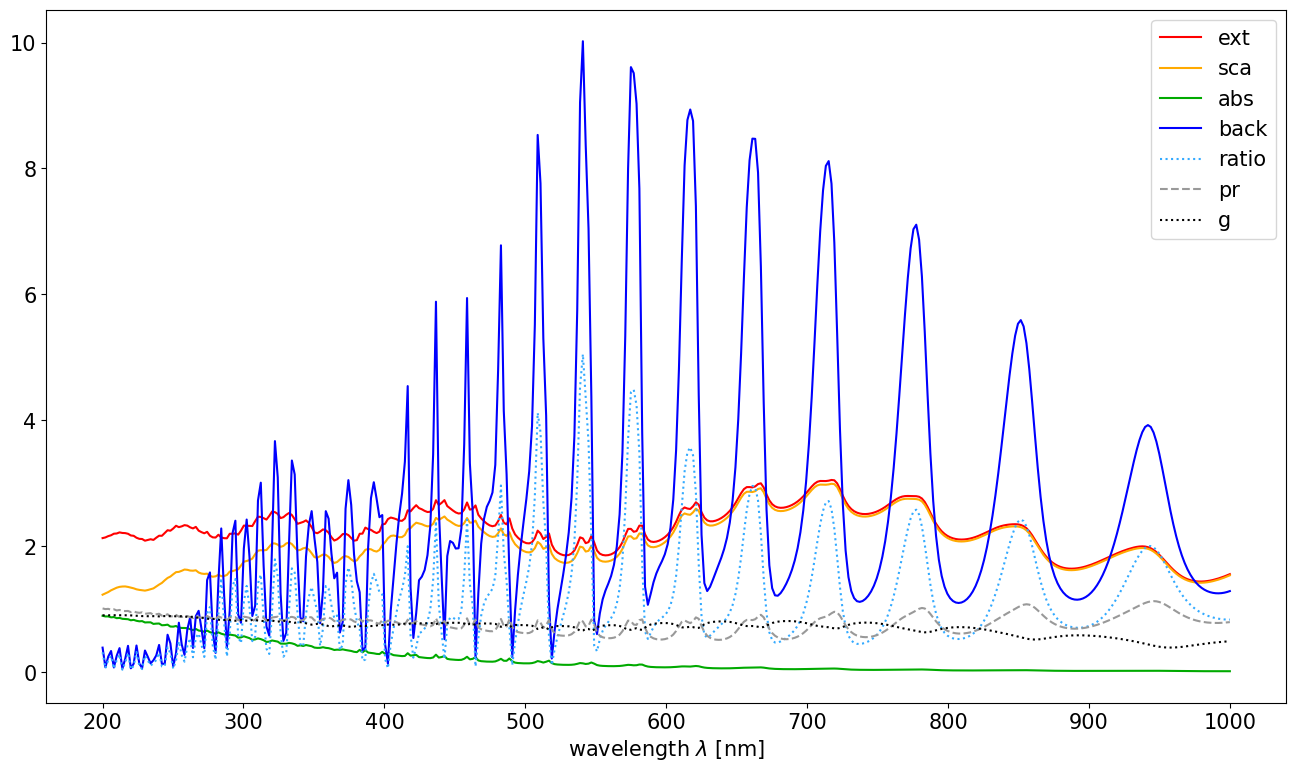
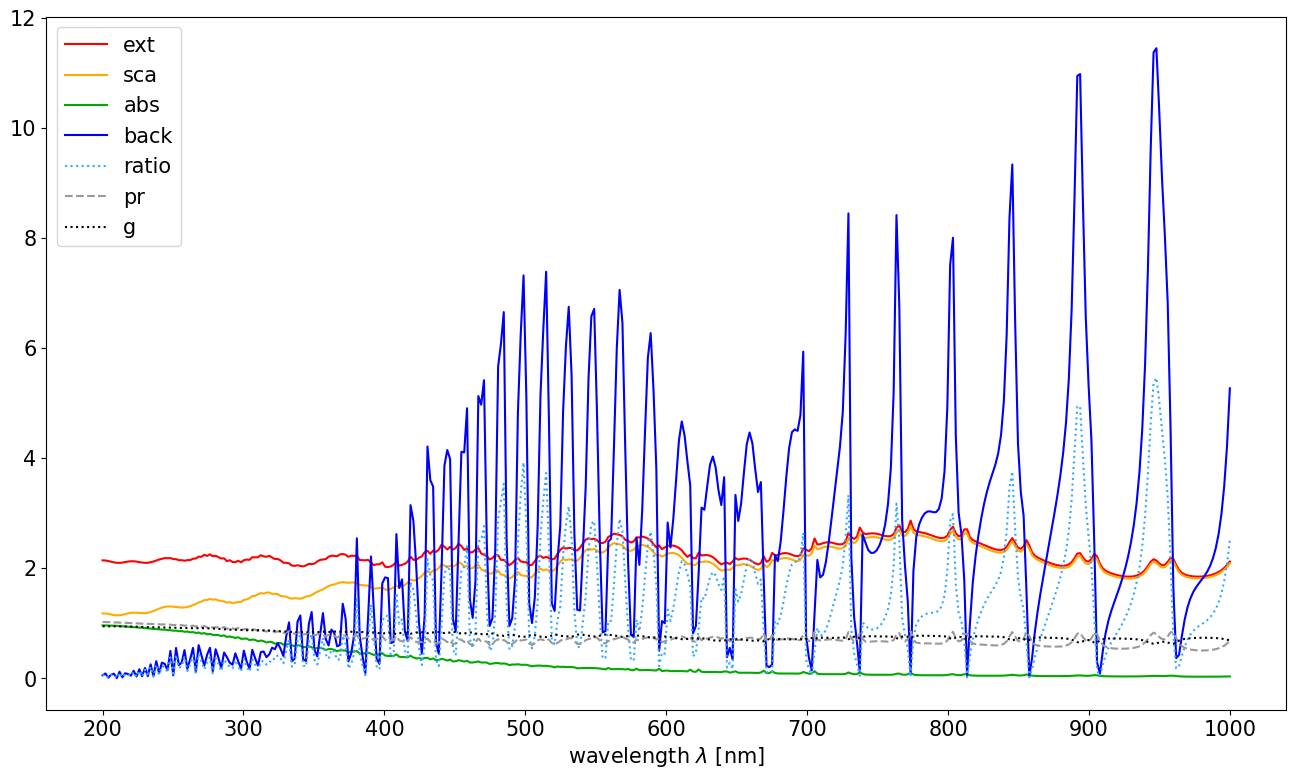
WIP documentation: particle size distribution
also adjusted coated particle for similarity against particle size
distributions

diff --git a/docs/source/psd.rst b/docs/source/psd.rst
@@ -3,4 +3,246 @@
 Particle distributions
 ======================
 
-*Work in progress...*
+.. code:: ipython3
+
+    #imports
+    import numpy as np
+    if np.__version__>'1.25':
+        np.set_printoptions(legacy="1.25", threshold=200)
+    import ARTmie
+    import matplotlib.pyplot as plt
+    plt.rcParams.update({"font.size":15, "figure.figsize":[16,9]})
+
+ARTmie is capable to calculate the Mie efficiencies for whole particle size distributions.
+
+At the moment only log-normal distributions are available.
+
+Others may be available in future versions.
+
+
+All particles in the size distribution share common properties:
+ - mean diameter of the particle (core) :math:`d_\text{gn}`
+ - geometric standard deviation of the diameter :math:`\sigma_\text{g}`
+ - refractive index if the core material :math:`m_\text{p}`
+ - optional: refractive index of the coating material :math:`m_\text{c}`
+ - optional: coating fraction :math:`f_\text{coat}`
+
+The property of the incident light, which interacts with the particle, is:
+ - wavelength :math:`\lambda`
+
+
+ARTmie follows the convention to use :math:`\text{nm}` for lengths and a positive sign
+for the extinction part of the complex refractive index :math:`m=n+i\cdot{}k`
+
+
+Let us assume dust particles coated with water (:math:`f_\text{coat}=0.16`) with a size distribution of
+:math:`d_\text{gn}=3.5`\ µm and :math:`\sigma_\text{g}=1.7`
+
+Red light of 650nm shines on these particles, setting their refractive indices to
+:math:`m_\text{p}=1.550+i\cdot{}1.586×10^{−3}` and
+:math:`m_\text{c}=1.331+i\cdot{}1.038×10^{−8}`
+
+
+.. code:: ipython3
+
+    #refractive index of dust
+    #polynomial approximation of dust refractive indices for the desired range of wavelengths
+    def ri_dust(wl):
+        um = wl/1000.0;
+        re = 1.55+0.0*um
+        im = 10.0**(1.6366853045686867*um*um -3.7295448874268686*um -1.0669696518787077)
+        return re+im*1j
+    #refractive index of water
+    def ri_h2o(wl,t_celsius,rho_kgm3):
+        t,r,luv2,lir2 = (273.15+t_celsius)/273.15,rho_kgm3/1000.0,0.2292020**2,5.432937**2
+        l2 = (wl/589.0)**2
+        re = (0.244257733 + 0.00974634476*r - 0.00373234996*t + 0.000268678472*l2*t + 0.0015820570/l2 + 0.00245934259/(l2 - luv2) + 0.900704920/(l2 - lir2) - 0.0166626219*r*r)*r
+        im = -4.0 - 4.71/(1.0 + 3.7e-6*(wl-255)**2 - 1.0e-3*(wl-255)) #log10(k), eye-balled approx. of fig 1 in https://www.researchgate.net/publication/286477328_Dual-wavelength_light-scattering_technique_for_selective_detection_of_volcanic_ash_particles_in_the_presence_of_water_droplets/figures?lo=1
+        return np.sqrt((1+re+re)/(1-re)) + (10**im)*1j
+    
+    #basic properties
+    d_gn       = 3500.0
+    sigma_g    = 1.70
+    fcoat      = 0.16
+    wl         = 650.0
+    m_dst      = ri_dust(wl)
+    m_h2o      = ri_h2o(wl, 25.0, 997.0)
+
+
+So, how does this distribution look like?
+
+ARTmie can give us this ditribution with a desired resolution.
+
+But let us use the default settings with a bin-width of :math:`\text{d}\log(d_\text{p})=1/10`.
+
+
+.. code:: ipython3
+
+    d_core,d_shell,pdf,crossAreas,normFactor = ARTmie.createLogNormalDistribution(d_gn, sigma_g, fcoat=fcoat)
+    
+    plt.figure()
+    plt.plot(d_core, pdf/np.sum(pdf))
+    plt.gca().set_xscale('log')
+    plt.xlabel('core diameter [nm]')
+    plt.ylabel('normalized pdf');
+    plt.show()
+
+
+.. image:: ./figures/psd_pdf.png
+
+
+
+Previously for :any:`simple <./simple>` or :any:`coated <./coated>` particles, we looked at
+the external field coefficients :math:`a_n` and :math:`b_n`.
+
+But this makes no sense anymore, as we look for a whole range of particles with different diameters
+and therefore different size parameters.
+
+Instead we jump directly into the analyses of the Mie efficiencies.
+
+Mathematical they are integrated over the whole size distribution as following:
+
+.. math::
+
+    \beta_{Q} ~=~ 10^{-6} \int_0^\infty \frac{\pi{}d_\text{p}^2}{4} Q(m,\lambda,d_\text{p}) n(d_\text{p}) \text{d}d_\text{p}
+
+with :math:`d_\text{p}` the particle sizes,
+:math:`n(d_\text{p})` the number of particle per size,
+:math:`Q` the desired Mie efficiency and
+:math:`10^{-6}` a factor to scale the result to the unit of
+:math:`\text{M}\,\text{m}^{-1}`.
+
+The bulk asymmetry parameter is calculated differently, so it is not squeued up:
+
+.. math::
+
+    G ~=~ \frac{\int_0^\infty g(m,\lambda,d_\text{p}) Q_\text{sca}(m,\lambda,d_\text{p}) n(d_\text{p}) \text{d}d_\text{p}}{\int_0^\infty Q_\text{sca}(m,\lambda,d_\text{p}) n(d_\text{p}) \text{d}d_\text{p}}
+
+
+Similar to single particles, ARTmie provides a selection of Bulk-efficiencies:
+ - Extinction
+ - Scattering
+ - Absorption
+ - Backscattering: scattering angle weighted backscattering efficiency.
+   
+   Note: This is different to the purely backward scattering!
+   
+ - Backscatter-ratio: pure backscattering over forward scattering
+ - g: bulk-asymmetry parameter (positive for increased forward scattering, negative for more backward scattering)
+
+
+.. code:: ipython3
+
+    q = ARTmie.Size_Distribution_Optics(m_dst, d_gn, sigma_g, wl,
+                                        fcoat=fcoat, mc=m_h2o)
+    print(q)
+
+
+.. parsed-literal::
+
+    {'Extinction': 47517703.46711116, 'Scattering': 41841988.12073774, 'Absorption': 5675715.346373421, 'Backscattering': 0.03580451242240809, 'SSA': 0.8805557732750741, 'BackscatterRatio': 9.622206088125782e-09, 'Asymmetry': 0.821367047801355}
+
+
+How interesting would it be to analyse these efficiencies over a range of different wavelengths?
+
+Currently, ARTmie is not able to accept an array of wavelengths for the size distribution functions,
+so we have to do this with a loop.
+
+Let us consider the (very wide) optical range from 200nm to 1000nm again.
+
+``Qratio`` and ``g`` are scaled, to make those readable by the left scale.
+
+
+.. code:: ipython3
+
+    #calculate optical properties
+    wl = np.linspace(200.0, 1000.0, 400)
+    m_dst = ri_dust(wl)
+    m_h2o = ri_h2o(wl, 25.0, 997.0)
+    
+    q = { }
+    q['Qext']   = np.zeros_like(wl)
+    q['Qsca']   = np.zeros_like(wl)
+    q['Qabs']   = np.zeros_like(wl)
+    q['Qback']  = np.zeros_like(wl)
+    q['Qratio'] = np.zeros_like(wl)
+    q['Qpr']    = np.zeros_like(wl)
+    q['g']      = np.zeros_like(wl)
+    for n,(w,mp,mc) in enumerate(zip(wl,m_dst,m_h2o)):
+        qq = ARTmie.Size_Distribution_Optics(mp, d_gn, sigma_g, w, fcoat=fcoat, mc=mc)
+        q['Qext'][n] = qq['Extinction']
+        q['Qsca'][n] = qq['Scattering']
+        q['Qabs'][n] = qq['Absorption']
+        #'Backscattering' denotes the scattering angle weighted backscatter efficiency, which is different from the purely backward scattering
+        #therefore, we have to derive the pure backward scattering from the backscatter ratio: Bratio = Bback/Bsca
+        q['Qback'][n] = qq['BackscatterRatio']*qq['Scattering']
+        q['Qratio'][n] = qq['BackscatterRatio']
+        q['Qpr'][n]  = np.nan #not available
+        q['g'][n]    = qq['Asymmetry']
+    
+    #plot results
+    plt.figure()
+    plt.plot(wl, q['Qext'],        color='#F00', ls='-',  label='ext')
+    plt.plot(wl, q['Qsca'],        color='#FA0', ls='-',  label='sca')
+    plt.plot(wl, q['Qabs'],        color='#0A0', ls='-',  label='abs')
+    plt.plot(wl, q['Qback'],       color='#00F', ls='-',  label='back')
+    plt.plot(wl, q['Qratio']*1.e7, color='#3AF', ls=':',  label='ratio')
+    plt.plot(wl, q['Qpr'],         color='#999', ls='--', label='pr')
+    plt.plot(wl, q['g']*1.e7,      color='#000', ls=':',  label='g')
+    plt.legend()
+    plt.xlabel('wavelength $\\lambda$ [nm]')
+    plt.show()
+
+
+.. image:: ./figures/optprops_psd.png
+
+
+As for single particles, the phase function can also be calculated for particle size distributions.
+
+For this, ARTmie provides the function :func:`~ARTmie.Size_Distribution_Phase_Function`\ .
+
+This function takes optional arguments to be usable for coated particles:
+ - The shell’s refractive index: ``mc`` (default: mp, the refractive index of the core)
+ - The coating fraction: ``fcoat`` (default: 0.0, no coating at all)
+
+In the following example, the common position of the rainbow is marked as well like before for single particles.
+
+
+.. code:: ipython3
+
+    #choosing three representative wavelengths and corresponding refractive indices to visualize the rainbow near 138° (180°-42°)
+    #wavelengths are picked for good measure from https://en.wikipedia.org/wiki/Visible_spectrum
+    d_gn  = 7006.0
+    sigma_g = 1.5
+    d_s_gn = 9108.0
+    w_red, m_c_red, m_s_red = 700.0, ri_dust(700.0), ri_h2o(700.0, 25.0, 997.0)
+    w_grn, m_c_grn, m_s_grn = 550.0, ri_dust(550.0), ri_h2o(550.0, 25.0, 997.0)
+    w_blu, m_c_blu, m_s_blu = 470.0, ri_dust(470.0), ri_h2o(470.0, 25.0, 997.0)
+    fcoat = d_s_gn/d_gn - 1.0
+    
+    theta = np.linspace(0.0, 180.0, 9000)
+    d2r = np.pi/180.0
+    
+    theta,sl_red,sr_red,su_red = ARTmie.Size_Distribution_Phase_Function(m_c_red,d_gn,sigma_g,w_red, mc=m_s_red,fcoat=fcoat)
+    theta,sl_grn,sr_grn,su_grn = ARTmie.Size_Distribution_Phase_Function(m_c_grn,d_gn,sigma_g,w_grn, mc=m_s_grn,fcoat=fcoat)
+    theta,sl_blu,sr_blu,su_blu = ARTmie.Size_Distribution_Phase_Function(m_c_blu,d_gn,sigma_g,w_blu, mc=m_s_blu,fcoat=fcoat)
+    
+    #normalizing
+    su_red /= np.sum(su_red)
+    su_grn /= np.sum(su_grn)
+    su_blu /= np.sum(su_blu)
+    theta = theta/d2r
+    
+    plt.figure()
+    plt.plot(theta, su_red, color='#F00', label='red')
+    plt.plot(theta, su_grn, color='#3F3', label='green')
+    plt.plot(theta, su_blu, color='#06F', label='blue')
+    plt.gca().set_yscale('log')
+    plt.axvline(138.0, color='#999')
+    plt.annotate('rainbow', xy=(137.5,10**-0.5), color='#999', ha='right')
+    plt.legend()
+    plt.xlabel('scattering angle $\\theta$ [°]')
+    plt.show()
+
+
+.. image:: ./figures/rainbow_psd.png

diff --git a/docs/source/coated.rst b/docs/source/coated.rst
@@ -91,28 +91,38 @@ But they take also heavily use of the spherical :any:`bessel functions <./bessel
 
 .. parsed-literal::
 
-    a_n = [2.57934071e-01+4.15939532e-01j 3.17034338e-01+4.52288900e-01j
-     3.66153793e-01+4.63788136e-01j 5.93951885e-01+4.77771183e-01j
-     6.57353432e-01+4.59909101e-01j 9.04282611e-01+2.68553968e-01j
-     9.84714740e-01+5.50740345e-02j 9.17714721e-01-2.51597739e-01j
-     5.82568325e-01-4.80030352e-01j 5.48474240e-02-2.04535202e-01j
-     4.96510072e-02+2.03398288e-01j 6.68433842e-01+4.39822910e-01j
-     7.29737887e-03-8.28737846e-02j 1.46629459e-04-1.14605166e-02j
-     4.04629772e-06-1.73157157e-03j 1.38259338e-07-2.42458045e-04j
-     6.83052755e-09-3.03590178e-05j 4.23789381e-10-3.37592790e-06j
-     2.66696885e-11-3.33933676e-07j 1.56894504e-12-2.95102349e-08j
-     8.47493407e-14-2.34174794e-09j 4.19490665e-15-1.67721056e-10j]
-    b_n = [2.40350231e-01+4.13233693e-01j 2.95972622e-01+4.36020842e-01j
-     4.36686198e-01+4.83857081e-01j 4.60995687e-01+4.82125673e-01j
-     7.82693329e-01+3.95969520e-01j 8.14516945e-01+3.73045977e-01j
-     9.83957287e-01-7.00312143e-03j 9.15618487e-01-2.59964034e-01j
-     7.25772666e-01-4.31026273e-01j 1.34584856e-02-5.56120586e-02j
-     5.31000200e-02+2.15031534e-01j 1.51919757e-01+3.45939481e-01j
-     6.02434606e-03-7.31874112e-02j 6.41892811e-05-6.96213574e-03j
-     1.55244161e-06-8.42135230e-04j 6.22284977e-08-9.83708748e-05j
-     3.40240819e-09-1.05106575e-05j 1.98011490e-10-1.01328364e-06j
-     1.10340972e-11-8.79634481e-08j 5.72272617e-13-6.88996931e-09j
-     2.74377175e-14-4.88625592e-10j 1.21468171e-15-3.14975401e-11j]
+    a_n = [4.00955401e-01-4.52456054e-01j 4.52804720e-01-4.79744571e-01j
+     3.89070492e-01-4.48912799e-01j 2.60602485e-01-4.18506867e-01j
+     3.46980598e-01-4.40848453e-01j 6.25577186e-02-1.97581006e-01j
+     1.73473443e-01-3.46451017e-01j 3.76992431e-02+9.64849217e-02j
+     2.19034701e-02+6.18400512e-02j 1.00093535e-01+2.42654846e-01j
+     4.08583273e-01+4.71454008e-01j 4.40710157e-01+4.75698962e-01j
+     8.19638639e-01+3.47989772e-01j 9.79093094e-01+3.48724912e-02j
+     9.22091249e-01-2.29372010e-01j 6.25435471e-01-4.62330692e-01j
+     1.38865074e-01-3.10392352e-01j 1.18398934e-01+2.98516662e-01j
+     3.99515694e-01+4.78049465e-01j 9.61891659e-01+5.76734707e-02j
+     3.27433546e-02-1.63146385e-01j 2.29552801e-03+1.24827917e-02j
+     4.52272288e-03-5.56389081e-02j 4.03714420e-05-5.41656147e-03j
+     1.37342598e-06-9.26372744e-04j 6.07736669e-08-1.60836256e-04j
+     3.37523117e-09-2.64618390e-05j 2.28422292e-10-4.05232933e-06j
+     1.70091228e-11-5.74770957e-07j 1.28132727e-12-7.54725095e-08j
+     9.38648172e-14-9.18647193e-09j 6.58724723e-15-1.03859983e-09j]
+    b_n = [5.10724078e-01-4.81771075e-01j 3.94324493e-01-4.50027713e-01j
+     3.66823331e-01-4.63801730e-01j 3.82306156e-01-4.47308157e-01j
+     1.42328693e-01-3.23612773e-01j 3.09757135e-01-4.30751456e-01j
+     2.18953313e-02+3.03610496e-03j 7.63779293e-02-2.29064888e-01j
+     9.70393859e-02+2.28160868e-01j 1.51656045e-01+3.38740951e-01j
+     1.03791700e-01+2.56594021e-01j 8.05861598e-01+3.66956509e-01j
+     7.31551910e-01+4.29438142e-01j 8.35660346e-01+3.21588830e-01j
+     6.76625562e-01-4.49787098e-01j 7.22174879e-01-4.37382378e-01j
+     5.41624816e-01-4.69183819e-01j 2.49022930e-01+4.11562235e-01j
+     3.97690676e-01+4.82782920e-01j 6.65261218e-01+4.51845857e-01j
+     4.29348113e-02-1.82603893e-01j 1.80751566e-03+1.06079582e-02j
+     8.48512690e-02-1.97414078e-01j 4.09423265e-05-4.71199278e-03j
+     1.05716172e-06-6.42991115e-04j 4.53606307e-08-9.57493053e-05j
+     2.58244595e-09-1.38686751e-05j 1.70007020e-10-1.89729848e-06j
+     1.17073648e-11-2.42826685e-07j 8.01114675e-13-2.89918027e-08j
+     5.32656411e-14-3.22848029e-09j 3.40727912e-15-3.35665866e-10j]
 
 
 From these external field coefficients, ARTmie can calculate the Mie efficiencies
@@ -136,7 +146,7 @@ as given for :any:`simple particles <./simple>`\ .
 
 .. parsed-literal::
 
-    {'Qext': 2.7204157458423883, 'Qsca': 2.651808767206606, 'Qabs': 0.06860697863578213, 'Qback': 3.5580966706718757, 'Qratio': 1.3417621642528719, 'Qpr': 0.6570639857968106, 'g': 0.7780922159855048}
+    {'Qext': 2.1557165686862576, 'Qsca': 2.046167177202159, 'Qabs': 0.10954939148409881, 'Qback': 3.0036204627827123, 'Qratio': 1.467925248849771, 'Qpr': 0.7000313128597385, 'g': 0.7114204899997275}
 
 
 These Mie efficiencies can be calculated directly with the call :func:`ARTmie.MieCoatedQ`\ .
@@ -154,7 +164,7 @@ Backscatter-ratio and asymmetry parameter stay dimensionless.
 
 .. parsed-literal::
 
-    {'Cext': 11302664.416144568, 'Csca': 11017619.140505742, 'Cabs': 285045.2756388257, 'Cback': 14783024.502878848, 'Cratio': 1.3417621642528719, 'Cpr': 2729940.7242241427, 'g': 0.7780922159855048}
+    {'Cext': 27908314.486876827, 'Csca': 26490067.341683976, 'Cabs': 1418247.1451928522, 'Cback': 38885438.69458864, 'Cratio': 1.467925248849771, 'Cpr': 9062737.798530234, 'g': 0.7114204899997275}
 
 
 It is also possible to calculate this optical properties for a whole range of wavelengths simultaneously.
